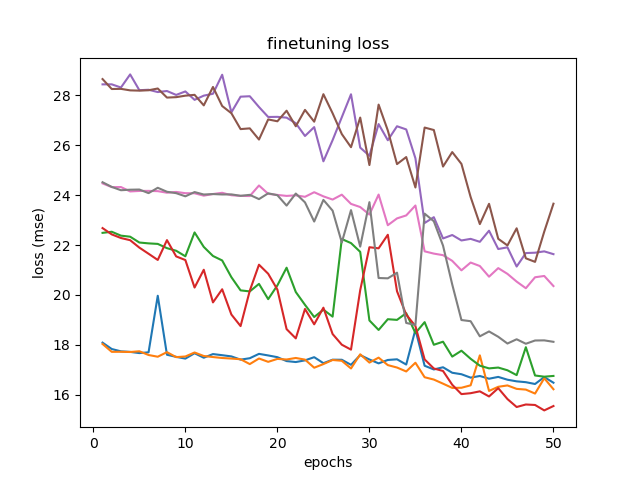
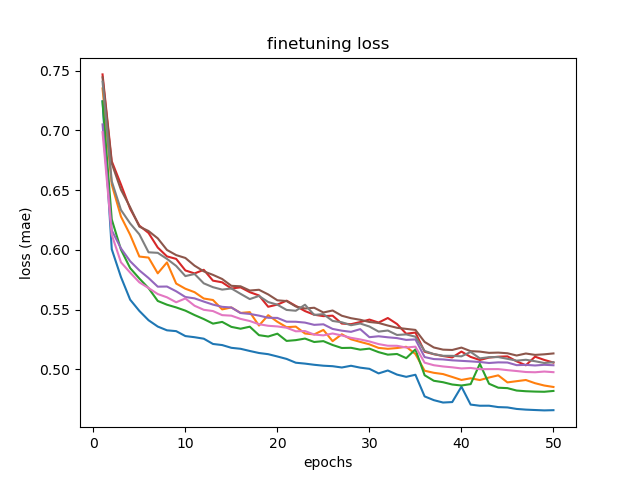
sync scripts + plots

diff --git a/scripts/simCLR_finetune.py b/scripts/simCLR_finetune.py
@@ -1,15 +1,16 @@
+
 import numpy as np
 import tensorflow as tf
 import tensorflow.keras as keras
 from tensorflow.keras import layers
-from contrastiv_model import simCLR, ContrastivLoss
+from contrastiv_model import simCLR, ContrastivLoss, simCLR_adversarial
 import os 
 import matplotlib.pyplot as plt
 os.environ["CUDA_VISIBLE_DEVICES"] = '0'
 import time
 
 
-def backbone(bn=True) :
+def backbone(bn=True, adv=False) :
     inp = keras.Input((64, 64, 5))
     c1 = layers.Conv2D(96, padding='same', strides=1, kernel_size=3)(inp) # 64
     c1 = layers.PReLU()(c1) 
@@ -38,8 +39,10 @@ def backbone(bn=True) :
     l1 = layers.PReLU()(l1)
     if bn :
         l1 = layers.BatchNormalization()(l1)
-
-    return keras.Model(inputs=inp, outputs=l1)
+    if adv :
+        return keras.Model(inputs=inp, outputs=[l1, flat])
+    else :
+        return keras.Model(inputs=inp, outputs=l1)
 
 def mlp(input_shape=100):
     latent_input = keras.Input((input_shape))
@@ -71,14 +74,18 @@ def regression_head(input_shape=1024) :
 
 
 class FineTuneModel(keras.Model) :
-    def __init__(self, back, head, train_back=False) :
+    def __init__(self, back, head, train_back=False, adv=False) :
         super(FineTuneModel, self).__init__()
         self.backbone = back
         self.head = head
+        self.adv = adv
         self.train_back = train_back
     
     def call(self, inputs, training=True) :
-        latent = self.backbone(inputs, training=self.train_back)
+        if self.adv :
+            latent, flat = self.backbone(inputs, training=self.train_back)
+        else :
+            latent = self.backbone(inputs, training=self.train_back)
         pred = self.head(latent, training=training)
         return pred
     
@@ -164,6 +171,7 @@ for base in ["b1_1", "b1_2", "b2_1", "b2_2", "b3_1", "b3_2"] :
     data_gen = DataGen("/lustre/fswork/projects/rech/dnz/ull82ct/astro/data/finetune/"+base+".npz", batch_size=32)
 
     # PARTIE 1
+    #model = simCLR_adversarial(backbone(bn, adv=True), mlp(1024), mlp_adversarial(1024))
     model = simCLR(backbone(bn), mlp(1024))
     model(np.random.random((32, 64, 64, 5)))
     model.load_weights(weights_path)
@@ -171,19 +179,20 @@ for base in ["b1_1", "b1_2", "b2_1", "b2_2", "b3_1", "b3_2"] :
     extracteur = model.backbone
     predictor = regression_head(1024)
 
-    model1 = FineTuneModel(extracteur, predictor, train_back=False)
+    model1 = FineTuneModel(extracteur, predictor, train_back=False, adv=False)
     model1.compile(optimizer=keras.optimizers.Adam(1e-4), loss="mae")
     history = model1.fit(data_gen, epochs=50, callbacks=[LearningRateDecay()])
     model1.save_weights("/lustre/fswork/projects/rech/dnz/ull82ct/astro/model_save/checkpoints_simCLR_finetune/simCLR_finetune_HeadOnly_base="+base+"_model="+name+".weights.h5")
 
     plt.plot(np.arange(1, 51), history.history["loss"])
     plt.xlabel("epochs")
-    plt.ylabel("loss (mse)")
+    plt.ylabel("loss (mae)")
     plt.title("finetuning loss")
     plt.savefig("/lustre/fswork/projects/rech/dnz/ull82ct/astro/plots/simCLR/simCLR_finetune_HeadOnly_base="+base+"_model="+name+".png")
-
+    plt.close()
 
     # PARTIE 2
+    #model = simCLR_adversarial(backbone(bn, adv=True), mlp(1024), mlp_adversarial(1024))
     model = simCLR(backbone(bn), mlp(1024))
     model(np.random.random((32, 64, 64, 5)))
     model.load_weights(weights_path)
@@ -191,15 +200,15 @@ for base in ["b1_1", "b1_2", "b2_1", "b2_2", "b3_1", "b3_2"] :
     extracteur = model.backbone
     predictor = regression_head(1024)
 
-    model1 = FineTuneModel(extracteur, predictor, train_back=False)
-    model1.compile(optimizer=keras.optimizers.Adam(1e-4), loss="mse")
+    model1 = FineTuneModel(extracteur, predictor, train_back=True, adv=False)
+    model1.compile(optimizer=keras.optimizers.Adam(1e-4), loss="mae")
     history = model1.fit(data_gen, epochs=50, callbacks=[LearningRateDecay()])
     model1.save_weights("/lustre/fswork/projects/rech/dnz/ull82ct/astro/model_save/checkpoints_simCLR_finetune/simCLR_finetune_ALL_base="+base+"_model="+name+".weights.h5")
 
     plt.plot(np.arange(1, 51), history.history["loss"])
     plt.xlabel("epochs")
-    plt.ylabel("loss (mse)")
+    plt.ylabel("loss (mae)")
     plt.title("finetuning loss")
     plt.savefig("/lustre/fswork/projects/rech/dnz/ull82ct/astro/plots/simCLR/simCLR_finetune_ALL_base="+base+"_model="+name+".png")
-
+    plt.close()
 

diff --git a/scripts/compute_metrics.py b/scripts/compute_metrics.py
@@ -107,14 +107,18 @@ def regression_head(input_shape=1024) :
 
 
 class FineTuneModel(keras.Model) :
-    def __init__(self, back, head, train_back=False) :
+    def __init__(self, back, head, train_back=False, adv=False) :
         super(FineTuneModel, self).__init__()
         self.backbone = back
         self.head = head
+        self.adv = adv
         self.train_back = train_back
-    
+
     def call(self, inputs, training=True) :
-        latent = self.backbone(inputs, training=self.train_back)
+        if self.adv :
+            latent, flat = self.backbone(inputs, training=self.train_back)
+        else :
+            latent = self.backbone(inputs, training=self.train_back)
         pred = self.head(latent, training=training)
         return pred
 
@@ -122,11 +126,13 @@ class FineTuneModel(keras.Model) :
 base_path = "/lustre/fswork/projects/rech/dnz/ull82ct/astro/"
 
 
-#model = FineTuneModel(backbone(True), head=regression_head(1024))
-model = create_model()
-treyer = True
-model.load_weights(base_path+"model_save/checkpoints_supervised/treyer_supervised_b2_1.weights.h5")
-model_name='treyer_b2_1'
+model = FineTuneModel(backbone(True), head=regression_head(1024))
+#model = create_model()
+model(np.random.random((32, 64, 64, 5)))
+treyer = False
+model.load_weights(base_path+"model_save/checkpoints_simCLR_finetune/simCLR_finetune_HeadOnly_base=b1_1_model=UD.weights.h5")
+#model.load_weights(base_path+"model_save/checkpoints_supervised/treyer_supervised_b3_1.weights.h5")
+model_name='simCLR_Head_UD_b1_1'
 
 directory = base_path+"data/spec/"
 
@@ -137,6 +143,14 @@ npz_files = [f for f in os.listdir(directory) if f.endswith('spec_UD.npz')]
 true_z = []
 pred_z = []
 
+
+def z_med(probas, bin_central_values) :
+    cdf = np.cumsum(probas)
+    index = np.argmax(cdf>=0.5)
+    return bin_central_values[index]
+
+bins_edges = np.concatenate([np.linspace(0, 4, 381), np.linspace(4, 6, 21)[1:]], axis=0)
+bins_centres = (bins_edges[1:] + bins_edges[:-1])/2
 
 def extract_z(tup) :
     return tup[40]
@@ -151,11 +165,12 @@ for file in npz_files :
     if treyer :
         probas, reg = model.predict(images)
         #print(reg.shape)
-        reg = reg[:, 0]
+        z_meds = np.array([z_med(p, bins_centres) for p in probas])
+        reg = z_meds
         #print(reg.shape)
     else :
         reg = model.predict(images)
-    
+        reg = reg[:, 0]
     pred_z.append(reg)
     counter+=1
     

diff --git a/scripts/finetune_base_study.py b/scripts/finetune_base_study.py
@@ -12,6 +12,7 @@ import time
 
 bins_edges = np.concatenate([np.linspace(0, 4, 381), np.linspace(4, 6, 21)[1:]], axis=0)
 bins_centres = (bins_edges[1:] + bins_edges[:-1])/2
+print(bins_edges.shape, bins_centres.shape)
 
 for base in ["b1_1", "b1_2", "b2_1", "b2_2", "b3_1", "b3_2"] :
 
@@ -20,7 +21,8 @@ for base in ["b1_1", "b1_2", "b2_1", "b2_2", "b3_1", "b3_2"] :
     meta = data["info"]
     z_values = meta[:, 6]
     z_values = z_values.astype(np.float32)
-
+    bins_edges = np.concatenate([np.linspace(0, 4, 381), np.linspace(4, 6, 21)[1:]], axis=0)
+    bins_centres = (bins_edges[1:] + bins_edges[:-1])/2
     z_bins = np.zeros((400))
     for z in z_values :
         i = 0
@@ -33,13 +35,12 @@ for base in ["b1_1", "b1_2", "b2_1", "b2_2", "b3_1", "b3_2"] :
         if flag :
             z_bins[i-1] +=1
 
-
-    z_bins = z_bins / np.sum(z_bins)
-
-    plt.hist(bins_centres, z_bins)
+    z_bins = z_bins.astype(np.float32)
+    print("zbins", z_bins.shape, "centres", bins_centres.shape)
+    plt.bar(bins_centres, z_bins)
     plt.xlabel("Z SPEC")
-    plt.ylabel("density")
-    plt.title("N samples = "+len(z_values))
+    plt.ylabel("nb obs")
+    plt.title("Total = "+str(len(z_values)))
     plt.savefig("/lustre/fswork/projects/rech/dnz/ull82ct/astro/plots/bin_split_base="+base+".png")
     plt.close()
 
@@ -63,10 +64,10 @@ for base in ["b1_1", "b1_2", "b2_1", "b2_2", "b3_1", "b3_2"] :
 
     z_bins = z_bins / np.sum(z_bins)
 
-    plt.hist(bins_centres, z_bins)
+    plt.plot(bins_centres, z_bins)
     plt.xlabel("Z SPEC")
     plt.ylabel("density")
-    plt.title("N samples = "+len(z_values))
+    plt.title("N samples = "+str(len(z_values)))
     plt.savefig("/lustre/fswork/projects/rech/dnz/ull82ct/astro/plots/z_distr_base="+base+".png")
     plt.close()
 

diff --git a/scripts/simCLR_features.py b/scripts/simCLR_features.py
@@ -126,7 +126,7 @@ all_metas = []
 origin_label = []
 
 def extract_meta(tup) :
-    # RA   DEC   EB_V   ZPHOT   EBV
+    #                  RA      DEC    EB_V         ZPHOT          EBV
     return np.array([tup[1], tup[2], tup[7], max(tup[40], 1e-5), tup[35]])
 
 for i in range(len(indices2)) :
@@ -186,8 +186,8 @@ metas = np.concatenate(all_metas, axis=0)  # 12*20k, 5
 ra = metas[:, 0]
 dec = metas[:, 1]
 ebv = metas[:, 2]
-z = np.log(metas[:, 3]+1)
-
+z = np.log((metas[:, 3]/10)+1)
+print(np.max(z), np.min(z), np.max(metas[:, 3]), np.min(metas[:, 3]))
 
 print("IL Y A", len(images), "IMAGES DANS COSMO UD ET D")
 

diff --git a/scripts/cosmos_full_supervised.py b/scripts/cosmos_full_supervised.py
@@ -100,7 +100,8 @@ class DataGen(keras.utils.Sequence) :
                     flag = False
                 i+=1
             if flag : 
-                self.z_bins[j] = i
+                self.z_bins[j] = i-1
+        print(np.max(self.z_bins), np.min(self.z_bins))
         print("NAN IMGS :",np.any(np.isnan(self.images)))
         print("NAN Z :", np.any(np.isnan(self.z_values)), np.any(np.isnan(self.z_bins)))
         self.z_bins = self.z_bins.astype(np.int32)
